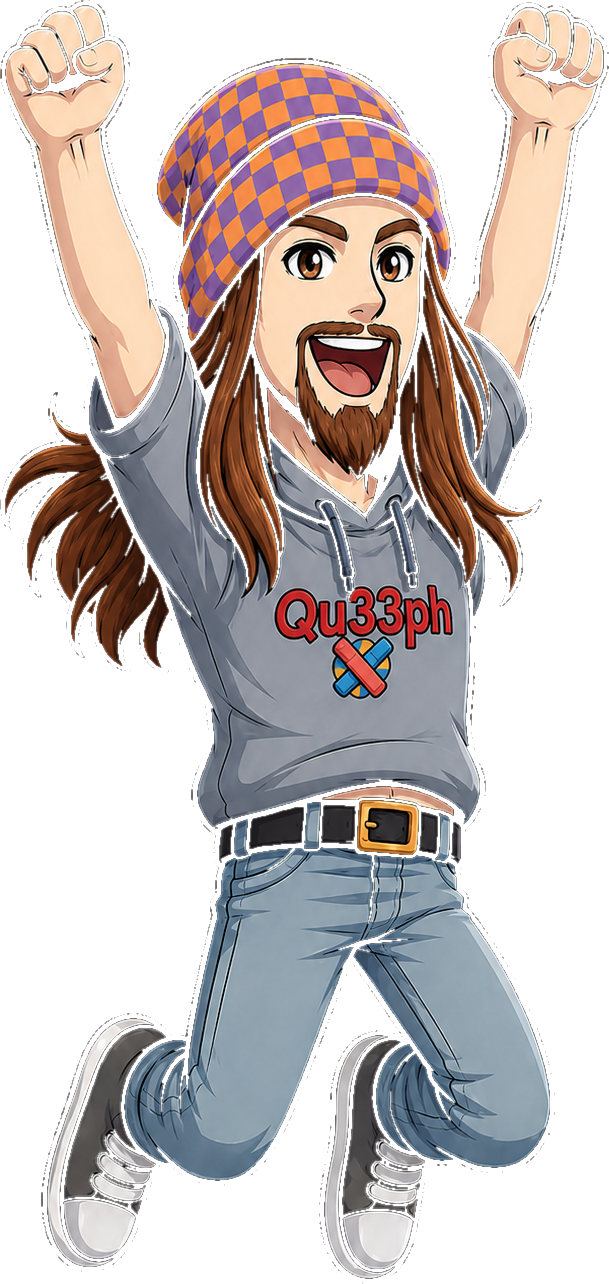
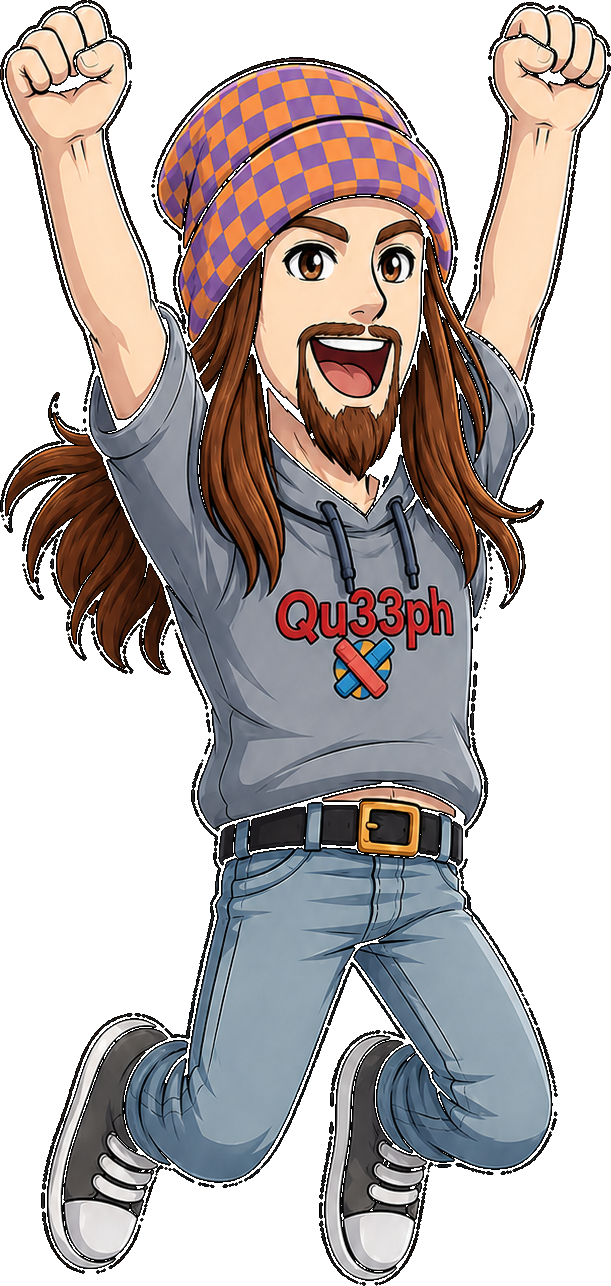
Add files via upload
added eggs and baby chickens

diff --git a/index.html b/index.html
@@ -601,7 +601,7 @@
   </style>
 </head>
 <body>
-<div id="verBadge" style="position:fixed;bottom:6px;right:8px;font-family:Helvetica,Arial,sans-serif;font-size:10px;color:#444;z-index:99999;letter-spacing:1px;pointer-events:none;">v347</div>
+<div id="verBadge" style="position:fixed;bottom:6px;right:8px;font-family:Helvetica,Arial,sans-serif;font-size:10px;color:#444;z-index:99999;letter-spacing:1px;pointer-events:none;">v349</div>
 
 <canvas id="game"></canvas>
 
@@ -660,7 +660,7 @@
     <div class="cab-card" id="cabFlip" onclick="launchFlip()"><div class="flipbox"><img src="blue.png" onerror="this.style.opacity=0.2"></div><div class="cab-label">QU33PH FLIP</div></div>
     <div class="cab-card" id="cabSkee" onclick="launchSkee()"><img src="qu33phball.png" style="width:100%;aspect-ratio:150/230;max-height:168px;object-fit:contain;border-radius:14px;box-sizing:border-box;" onerror="this.style.opacity=0.2"><div class="cab-label">QU33PH-BALL</div></div>
     <div class="cab-card" id="cabDozer" onclick="launchDozer()"><img src="dozerfield.png?v=317" style="width:100%;aspect-ratio:150/230;max-height:168px;object-fit:contain;border-radius:14px;box-sizing:border-box;" onerror="this.style.opacity=0.2"><div class="cab-label">QU33PH DOZER</div></div>
-    <div class="cab-card" id="cabMini" onclick="launchMini()"><img src="minicabinet.png?v=347" onerror="this.style.opacity=0.2"><div class="cab-label">MINI QU33PH</div></div>
+    <div class="cab-card" id="cabMini" onclick="launchMini()"><img src="minicabinet.png?v=349" onerror="this.style.opacity=0.2"><div class="cab-label">MINI QU33PH</div></div>
   </div>
   <button class="mk-btn back-tl" onclick="arcadeBack()" style="margin-top:16px;">← BACK</button>
 </div>
@@ -4543,11 +4543,11 @@ function launchGolf(){ try{pfMusicStop();}catch(e){} document.getElementById("ar
 function golfBack(){ var f=document.getElementById("golfFrame"); try{ f.setAttribute("src","about:blank"); }catch(e){} document.getElementById("golfScreen").style.display="none"; showArcadeMenu(); }
 function launchFidget(){ try{pfMusicStop();}catch(e){} document.getElementById("arcadeMenu").style.display="none"; var s=document.getElementById("fidgetScreen"); s.style.display="block"; var f=document.getElementById("fidgetFrame"); var _t=(typeof styleOf==="function"?styleOf():currentTheme); f.setAttribute("src","fidget.html?theme="+encodeURIComponent(_t)); arcadeGame="fidget"; try{ haptic(10); }catch(e){} }
 function fidgetBack(){ var f=document.getElementById("fidgetFrame"); try{ f.setAttribute("src","about:blank"); }catch(e){} document.getElementById("fidgetScreen").style.display="none"; showArcadeMenu(); }
-function launchMini(){ try{pfMusicStop();}catch(e){} document.getElementById("arcadeMenu").style.display="none"; document.getElementById("miniScreen").style.display="block"; var f=document.getElementById("miniFrame"); var _t=(typeof styleOf==="function"?styleOf():currentTheme); f.setAttribute("src","mini.html?v=347&theme="+encodeURIComponent(_t)); arcadeGame="mini"; try{ haptic(10); }catch(e){} }
+function launchMini(){ try{pfMusicStop();}catch(e){} document.getElementById("arcadeMenu").style.display="none"; document.getElementById("miniScreen").style.display="block"; var f=document.getElementById("miniFrame"); var _t=(typeof styleOf==="function"?styleOf():currentTheme); f.setAttribute("src","mini.html?v=349&theme="+encodeURIComponent(_t)); arcadeGame="mini"; try{ haptic(10); }catch(e){} }
 function miniBack(){ var f=document.getElementById("miniFrame"); try{ f.setAttribute("src","about:blank"); }catch(e){} document.getElementById("miniScreen").style.display="none"; showArcadeMenu(); }
-function launchStack(){ try{pfMusicStop();}catch(e){} document.getElementById("arcadeMenu").style.display="none"; var sc=document.getElementById("stackScreen"); sc.style.display="block"; var f=document.getElementById("stackFrame"); var _t=(typeof styleOf==="function"?styleOf():currentTheme); f.setAttribute("src","stack.html?v=347&theme="+encodeURIComponent(_t)); arcadeGame="stack"; try{ haptic(10); }catch(e){} }
+function launchStack(){ try{pfMusicStop();}catch(e){} document.getElementById("arcadeMenu").style.display="none"; var sc=document.getElementById("stackScreen"); sc.style.display="block"; var f=document.getElementById("stackFrame"); var _t=(typeof styleOf==="function"?styleOf():currentTheme); f.setAttribute("src","stack.html?v=349&theme="+encodeURIComponent(_t)); arcadeGame="stack"; try{ haptic(10); }catch(e){} }
 function stackBack(){ var f=document.getElementById("stackFrame"); try{ f.setAttribute("src","about:blank"); }catch(e){} document.getElementById("stackScreen").style.display="none"; showArcadeMenu(); }
-function launchSkee(){ try{pfMusicStop();}catch(e){} document.getElementById("arcadeMenu").style.display="none"; var sc=document.getElementById("skeeScreen"); sc.style.display="block"; var f=document.getElementById("skeeFrame"); var _t=(typeof styleOf==="function"?styleOf():currentTheme); f.setAttribute("src","qu33phball.html?v=347&theme="+encodeURIComponent(_t)); arcadeGame="skee"; try{ haptic(10); }catch(e){} }
+function launchSkee(){ try{pfMusicStop();}catch(e){} document.getElementById("arcadeMenu").style.display="none"; var sc=document.getElementById("skeeScreen"); sc.style.display="block"; var f=document.getElementById("skeeFrame"); var _t=(typeof styleOf==="function"?styleOf():currentTheme); f.setAttribute("src","qu33phball.html?v=349&theme="+encodeURIComponent(_t)); arcadeGame="skee"; try{ haptic(10); }catch(e){} }
 function skeeBack(){ var f=document.getElementById("skeeFrame"); try{ f.setAttribute("src","about:blank"); }catch(e){} document.getElementById("skeeScreen").style.display="none"; showArcadeMenu(); }
 function orientFlipIcon(im){
   im = im || document.querySelector("#cabFlip img"); if(!im) return;
@@ -4558,9 +4558,9 @@ function orientFlipIcon(im){
   };
   if(im.complete && im.naturalWidth) set(); else im.onload=set;
 }
-function launchFlip(){ try{pfMusicStop();}catch(e){} document.getElementById("arcadeMenu").style.display="none"; var sc=document.getElementById("flipScreen"); sc.style.display="block"; var f=document.getElementById("flipFrame"); var _t=(typeof styleOf==="function"?styleOf():currentTheme); f.setAttribute("src","flip.html?v=347&theme="+encodeURIComponent(_t)); arcadeGame="flip"; try{ haptic(10); }catch(e){} }
+function launchFlip(){ try{pfMusicStop();}catch(e){} document.getElementById("arcadeMenu").style.display="none"; var sc=document.getElementById("flipScreen"); sc.style.display="block"; var f=document.getElementById("flipFrame"); var _t=(typeof styleOf==="function"?styleOf():currentTheme); f.setAttribute("src","flip.html?v=349&theme="+encodeURIComponent(_t)); arcadeGame="flip"; try{ haptic(10); }catch(e){} }
 function flipBack(){ var f=document.getElementById("flipFrame"); try{ f.setAttribute("src","about:blank"); }catch(e){} document.getElementById("flipScreen").style.display="none"; showArcadeMenu(); }
-function launchDozer(){ try{pfMusicStop();}catch(e){} document.getElementById("arcadeMenu").style.display="none"; var sc=document.getElementById("dozerScreen"); sc.style.display="block"; var f=document.getElementById("dozerFrame"); var _t=(typeof styleOf==="function"?styleOf():currentTheme); f.setAttribute("src","dozer.html?v=347&theme="+encodeURIComponent(_t)); arcadeGame="dozer"; try{ haptic(10); }catch(e){} }
+function launchDozer(){ try{pfMusicStop();}catch(e){} document.getElementById("arcadeMenu").style.display="none"; var sc=document.getElementById("dozerScreen"); sc.style.display="block"; var f=document.getElementById("dozerFrame"); var _t=(typeof styleOf==="function"?styleOf():currentTheme); f.setAttribute("src","dozer.html?v=349&theme="+encodeURIComponent(_t)); arcadeGame="dozer"; try{ haptic(10); }catch(e){} }
 function dozerBack(){ var f=document.getElementById("dozerFrame"); try{ f.setAttribute("src","about:blank"); }catch(e){} document.getElementById("dozerScreen").style.display="none"; showArcadeMenu(); }
 function showCharSelect(){ pfMusicStop(); showPlatformer("charselect"); }
 function csNav(dir){ pfCharIdx=(pfCharIdx+dir+PF_CHARS.length)%PF_CHARS.length; try{haptic(6);}catch(e){} }
@@ -4576,13 +4576,19 @@ function csGrid(){                      // 2 columns, as many rows as it takes
   var bw=(W-pad*2-gapX)/cols, bh=(bot-top-gapY*(rows-1))/rows;
   return {cols:cols, rows:rows, top:top, pad:pad, gapX:gapX, gapY:gapY, bw:bw, bh:bh};
 }
+function csSlot(i,g){                    // a lone entry on the last row is centred, not left-aligned
+  var col=i%g.cols, row=(i/g.cols)|0;
+  var inRow=Math.min(g.cols, PF_CHARS.length-row*g.cols);
+  var rowW=inRow*g.bw+(inRow-1)*g.gapX;
+  var x0=(pfCanvas.width-rowW)/2;
+  return { x:x0+col*(g.bw+g.gapX), y:g.top+row*(g.bh+g.gapY) };
+}
 function csCanvasTap(x,y){
   var r=pfCanvas.getBoundingClientRect(), W=pfCanvas.width, H=pfCanvas.height;
   var lx=(x-r.left)*(W/r.width), ly=(y-r.top)*(H/r.height);
   var g=csGrid();
   for(var i=0;i<PF_CHARS.length;i++){
-    var cx=i%g.cols, cy=(i/g.cols)|0;
-    var bx=g.pad+cx*(g.bw+g.gapX), by=g.top+cy*(g.bh+g.gapY);
+    var _s=csSlot(i,g), bx=_s.x, by=_s.y;
     if(lx>=bx && lx<=bx+g.bw && ly>=by && ly<=by+g.bh){ pfCharIdx=i; csSelect(); return; }
   }
 }
@@ -4616,8 +4622,7 @@ function drawCharSelect(){
 
   var g=csGrid();
   for(var i=0;i<PF_CHARS.length;i++){
-    var col=i%g.cols, row=(i/g.cols)|0;
-    var bx=g.pad+col*(g.bw+g.gapX), by=g.top+row*(g.bh+g.gapY);
+    var _s=csSlot(i,g), bx=_s.x, by=_s.y;
     var ch2=PF_CHARS[i], sel=(i===pfCharIdx);
     var inner=csMarkerBtn(c,bx,by,g.bw,g.bh,sel);
     // portrait on the left of the body, text stacked to the right of it
@@ -4635,8 +4640,8 @@ function drawCharSelect(){
     c.fillText(ch2.name, tx+tw/2, by+g.bh*(ch2.note?0.48:0.58));
     if(ch2.note){
       c.fillStyle="#8affea"; c.font="bold "+Math.round(7*S)+"px Helvetica,Arial,sans-serif";
-      c.fillText(ch2.note, tx+tw/2, by+g.bh*0.68);
-      c.fillStyle="#9fe08a"; c.fillText("1.5x SPEED", tx+tw/2, by+g.bh*0.86);
+      c.fillText(ch2.note, tx+tw/2, by+g.bh*0.70);
+      c.fillStyle="#9fe08a"; c.fillText(ch2.note2||"1.5x SPEED", tx+tw/2, by+g.bh*0.86);
     }
   }
   c.restore();
@@ -4873,7 +4878,8 @@ function resetPlatformer(){
   var startX=W*0.5, startY=H*0.72;
   pfPlayer={x:startX, y:startY-15, vx:0,vy:0,w:20,h:30,onGround:true,face:1};
   pfStartX=startX; pfStartY=startY; pfBestX=startX; pfBestUp=startY-15; pfLastGroundY=startY-15; pfT=0;
-  pfMega=null; pfFlight=false; pfZoom=pfBaseZoom(); pfZoomT=pfBaseZoom(); pfCycles=0; pfLastLaunchCycle=-99; pfMegaFlash=0;
+  pfMega=null; pfFlight=false; pfZoom=pfBaseZoom(); pfZoomT=pfBaseZoom(); pfCycles=0;
+  pfAirJumps=0; try{ flockReset(); }catch(e){} pfLastLaunchCycle=-99; pfMegaFlash=0;
   pfBouncing=false; pfBounceCombo=0; pfBounceFlash=0; pfNoMarkerUntilX=0; pfUpStart=8;
   pfFlappy=false; pfFlappyFreeze=false; pfPipes=[]; pfFlappyPassed=0; pfFlappyHint=0; pfFlapEndless=false; pfFlapPipeN=0;
   pfCamX=pfPlayer.x-W*0.4; pfCamY=pfPlayer.y-H*0.55;
@@ -5193,6 +5199,7 @@ function updatePlatformer(){
     if(pfJumpQ){ _tryJump(); } pfJumpQ=false;
     if(pfActionQ){ _tryJump(); pfActionQ=false; }          // action also jumps
     p.vy += 0.58*(_ch.grav||1); if(p.vy>15*(_ch.grav||1)) p.vy=15*(_ch.grav||1);
+    try{ flockStep(); }catch(e){}
   }
   var prevBottom=p.y+p.h*0.5;
   p.x += p.vx; p.y += p.vy;
@@ -5301,7 +5308,7 @@ const jgJumpL=new Image(); jgJumpL.src="jump_jumpL.png";  // airborne, facing le
 // ── playable characters ──────────────────────────────────────────────────
 // Qu33ph has hand-drawn left AND right art. The other three only have right-facing
 // art, so they get mirrored on the canvas when facing left.
-var CHAR_V="347";   // bump when character art is replaced, so browsers drop the cached copy
+var CHAR_V="349";   // bump when character art is replaced, so browsers drop the cached copy
 function CIMG(src){ var i=new Image(); i.src=src+"?v="+CHAR_V; return i; }
 var PF_CHARS=[
   { id:"qu33ph", name:"QU33PH",     cls:"human", speed:1,   jump:1,     grav:1,    airJumps:0, note:"",
@@ -5321,7 +5328,7 @@ var PF_CHARS=[
     stand:CIMG("b3llstand.png"),    run:CIMG("b3llrun.png"),    jump_:CIMG("b3lljump.png") },
   { id:"bo",     name:"BO",         cls:"bird",  speed:1.5, jump:1.025, grav:0.70, airJumps:1, note:"DOUBLE JUMP \u00b7 FLOATS", hScale:0.85,
     stand:CIMG("bostand.png"),      run:CIMG("borun.png"),      jump_:CIMG("bojump.png") },
-  { id:"hem",    name:"H3MMINGWAY", cls:"bird",  speed:1.5, jump:1.025, grav:0.70, airJumps:1, note:"DOUBLE JUMP \u00b7 FLOATS", hScale:0.85,
+  { id:"hem",    name:"H3MMINGWAY", cls:"bird",  speed:1.5, jump:1.025, grav:0.70, airJumps:1, note:"DOUBLE JUMP \u00b7 FLOATS", note2:"LAYS EGGS \u00b7 GROW YOUR FLOCK", hScale:0.85,
     stand:CIMG("hemstand.png"),     run:CIMG("hemrun.png"),     jump_:CIMG("hemjump.png") }
 ];
 var pfCharIdx=0;
@@ -5347,6 +5354,73 @@ function spriteBox(img){
     if(x1>=x0 && y1>=y0) box={x:x0/n, y:y0/n, w:(x1-x0+1)/n, h:(y1-y0+1)/n};
   }catch(e){}
   _sbCache[key]=box; return box;
+}
+
+// ── H3mmingway's flock ──────────────────────────────────────────────────
+// She lays an egg every so often. Each one rides her own breadcrumb trail a fixed
+// distance behind, so it retraces exactly where she went and can never wedge on
+// geometry — there's no physics on them at all. As you cover ground each egg
+// advances: egg -> cracked -> peeking -> a chick that follows you for good.
+const FLOCK_COLORS=["black","gold","white","yellow","wild"];
+const FLOCK_IMGS={ egg0:CIMG("egg0.png"), egg1:CIMG("egg1.png") };
+FLOCK_COLORS.forEach(function(c){ FLOCK_IMGS["peek_"+c]=CIMG("peek_"+c+".png");
+                                  FLOCK_IMGS["chick_"+c]=CIMG("chick_"+c+".png"); });
+const PF_M = 13;                       // world px per metre, matching pfProgress
+let pfTrail=[], pfTrailDist=0, pfFlock=[], pfNextEgg=0, pfLastTrailX=0, pfLastTrailY=0;
+function flockReset(){
+  pfTrail=[]; pfTrailDist=0; pfFlock=[];
+  pfNextEgg=(20+Math.random()*10)*PF_M;                        // first egg after 20-30 m
+  pfLastTrailX=pfPlayer?pfPlayer.x:0; pfLastTrailY=pfPlayer?pfPlayer.y:0;
+}
+function flockStep(){
+  if(pfChar().id!=="hem" || !pfPlayer) return;
+  const p=pfPlayer;
+  const dx=p.x-pfLastTrailX, dy=p.y-pfLastTrailY, d=Math.hypot(dx,dy);
+  if(d>2){
+    pfTrailDist+=d; pfLastTrailX=p.x; pfLastTrailY=p.y;
+    pfTrail.push({x:p.x, y:p.y, d:pfTrailDist, f:(dx<-0.5?-1:(dx>0.5?1:0))});
+    if(pfTrail.length>1400) pfTrail.splice(0,pfTrail.length-1400);
+  }
+  if(pfTrailDist>=pfNextEgg){
+    pfFlock.push({ born:pfTrailDist,
+                   gap:(9+pfFlock.length*7)*PF_M,             // each new one tucks in further back
+                   col:FLOCK_COLORS[(Math.random()*FLOCK_COLORS.length)|0],
+                   t1:(20+Math.random()*10)*PF_M,             // crack
+                   t2:(20+Math.random()*10)*PF_M,             // peek
+                   t3:(20+Math.random()*10)*PF_M });          // hatched
+    pfNextEgg = pfTrailDist + (50+Math.random()*50)*PF_M;     // next egg in 50-100 m
+    if(pfFlock.length>14) pfFlock.shift();
+  }
+}
+function flockSample(dist){                                    // where the trail was, dist behind
+  if(!pfTrail.length) return null;
+  const want=pfTrailDist-dist;
+  if(want<=pfTrail[0].d) return pfTrail[0];
+  let lo=0, hi=pfTrail.length-1;
+  while(lo<hi){ const mid=(lo+hi)>>1; if(pfTrail[mid].d<want) lo=mid+1; else hi=mid; }
+  const b=pfTrail[lo], a=pfTrail[Math.max(0,lo-1)];
+  const span=(b.d-a.d)||1, t=Math.max(0,Math.min(1,(want-a.d)/span));
+  return { x:a.x+(b.x-a.x)*t, y:a.y+(b.y-a.y)*t, f:(b.f||a.f||1) };
+}
+function flockDraw(){
+  if(pfChar().id!=="hem" || !pfFlock.length) return;
+  const c=pfctx;
+  for(const m of pfFlock){
+    const age=pfTrailDist-m.born;
+    let img, h;
+    if(age<m.t1){ img=FLOCK_IMGS.egg0; h=PF_GUY_H*0.42; }
+    else if(age<m.t1+m.t2){ img=FLOCK_IMGS.egg1; h=PF_GUY_H*0.42; }
+    else if(age<m.t1+m.t2+m.t3){ img=FLOCK_IMGS["peek_"+m.col]; h=PF_GUY_H*0.50; }
+    else { img=FLOCK_IMGS["chick_"+m.col]; h=PF_GUY_H*0.46; }
+    if(!(img&&img.complete&&img.naturalWidth)) continue;
+    const pos=flockSample(m.gap); if(!pos) continue;
+    // drawn inside the camera transform, same as the player, so these are world coords
+    const bb=spriteBox(img), dh=h/(bb.h||1), dw=dh*(img.naturalWidth/img.naturalHeight);
+    c.save(); c.translate(pos.x,pos.y);
+    if((pos.f||1)<0) c.scale(-1,1);
+    c.drawImage(img, -(bb.x+bb.w/2)*dw, PF_GUY_FEET-(bb.y+bb.h)*dh, dw, dh);
+    c.restore();
+  }
 }
 function pfGuy(x,y,face,tilt){
   var p=pfPlayer, air=!p.onGround, moving=Math.abs(p.vx)>0.6;
@@ -5557,6 +5631,7 @@ function drawPlatformer(){
   var _tilt=0;
   if(pfFlappyFreeze) _tilt=-0.5;
   else if(pfFlappy) _tilt=Math.max(-0.5, Math.min(0.95, p.vy*0.06));   // nose up when flapping, down when falling
+  try{ flockDraw(); }catch(e){}
   pfGuy(p.x,p.y,p.face,_tilt);
   pfctx.restore();
   pfHud(W,H);
